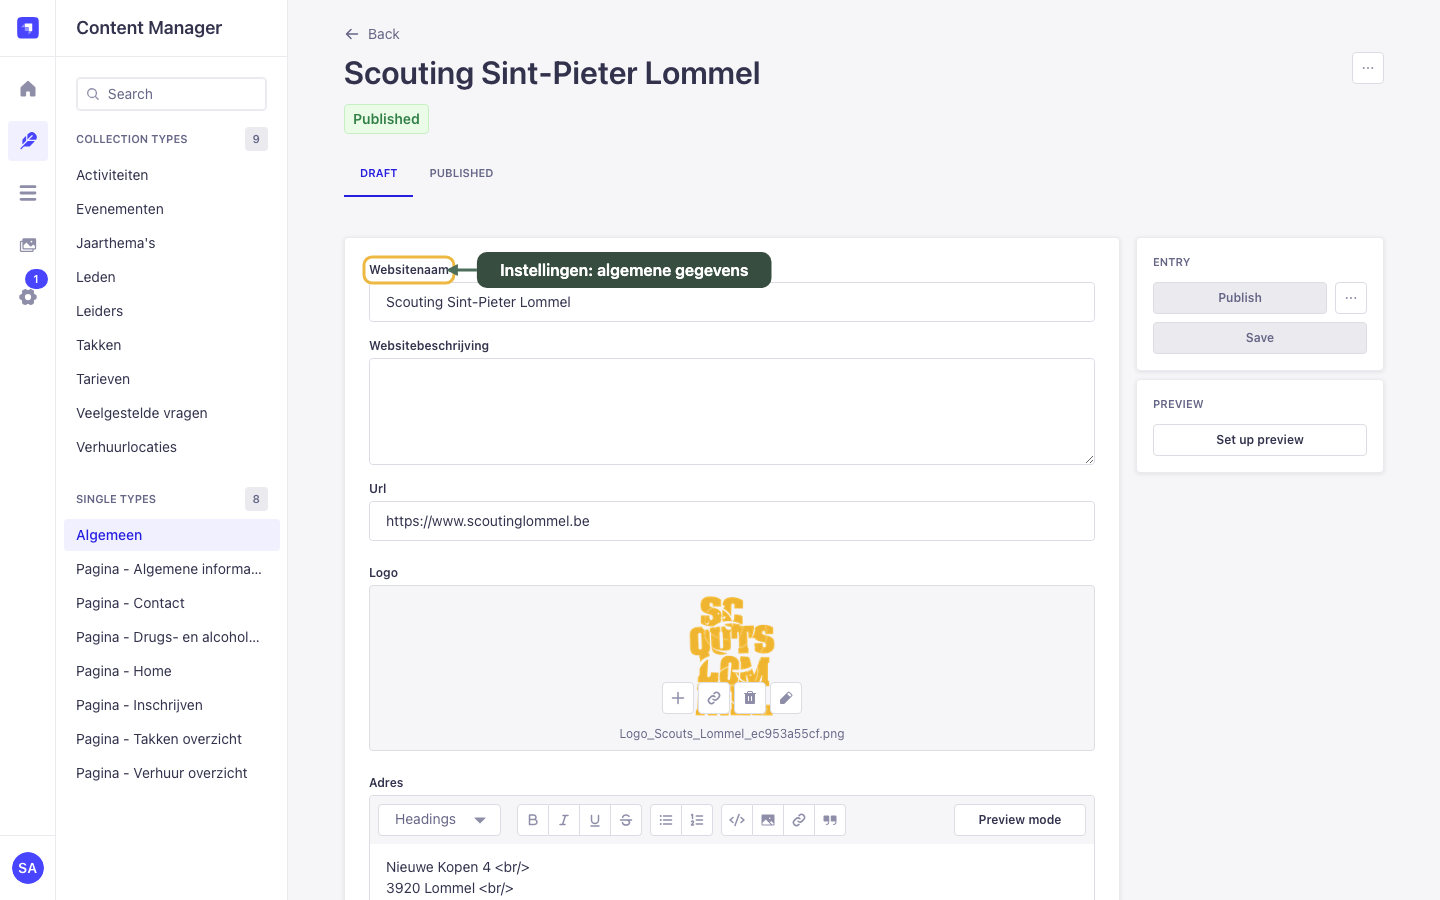
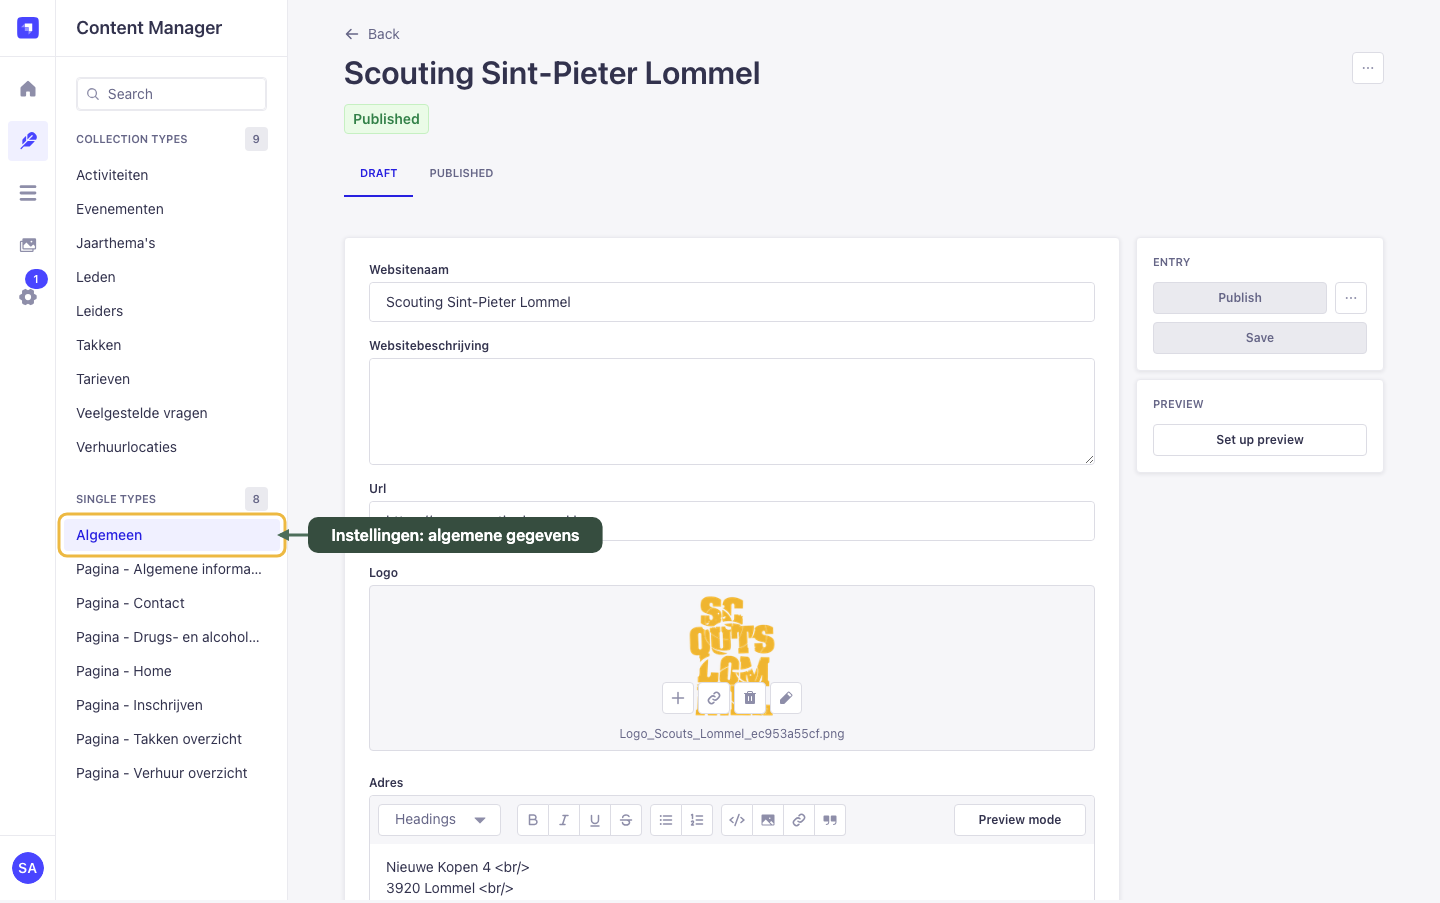
fix: highlight Algemeen sidebar item in settings screenshot

diff --git a/scripts/capture-manual.ts b/scripts/capture-manual.ts
@@ -682,20 +682,9 @@ const ADMIN_DEFINITIONS: ScreenshotDefinition[] = [
 		id: 'admin-settings',
 		url: `${adminBase()}/admin/content-manager/single-types/api::general-data.general-data`,
 		waitSelector: 'main form',
-		// The maintenance toggle lives far below the fold; highlight the
-		// first and most important field (website name) so the annotation is
-		// immediately readable in the viewport screenshot.
-		prepare: async (page) => {
-			await page.evaluate(() => {
-				const viewport = document.querySelector(
-					'[data-radix-scroll-area-viewport]'
-				);
-				(viewport ?? window).scrollTo(0, 0);
-			});
-			await page.waitForTimeout(300);
-		},
-		fullPage: false,
-		highlight: 'label:has-text("Websitenaam")',
+		// Highlight the "Algemeen" item in the left sidebar, not the form,
+		// because the manual uses this screenshot to show where settings live.
+		highlight: 'a:has-text("Algemeen")',
 		label: 'Instellingen: algemene gegevens',
 		callout: 'right',
 	},
